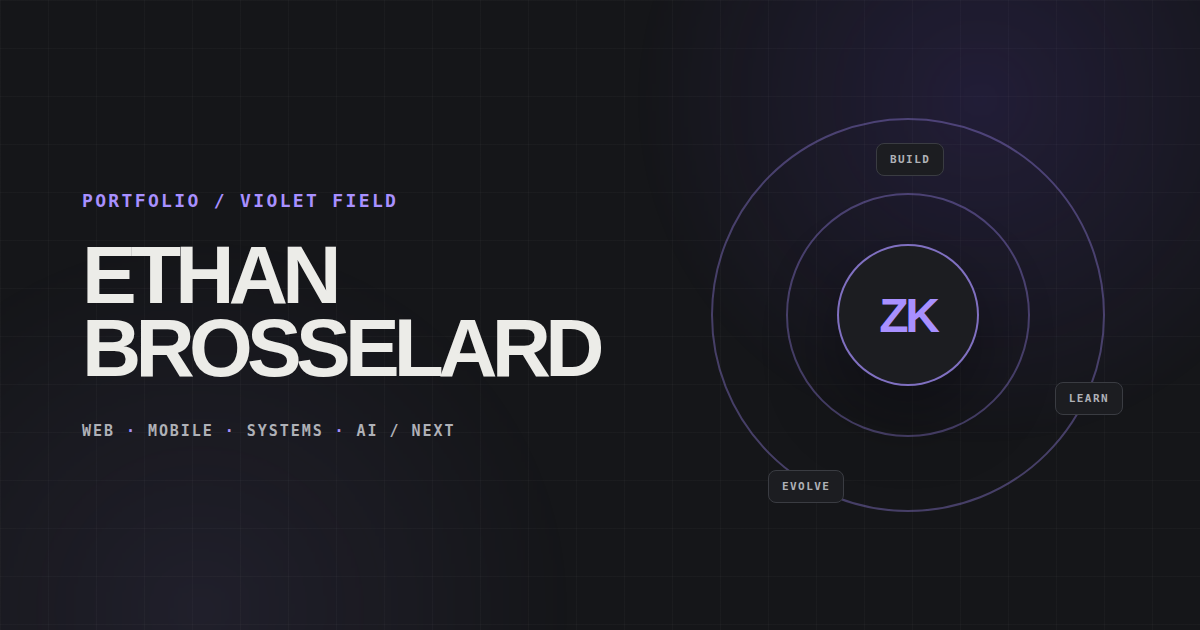
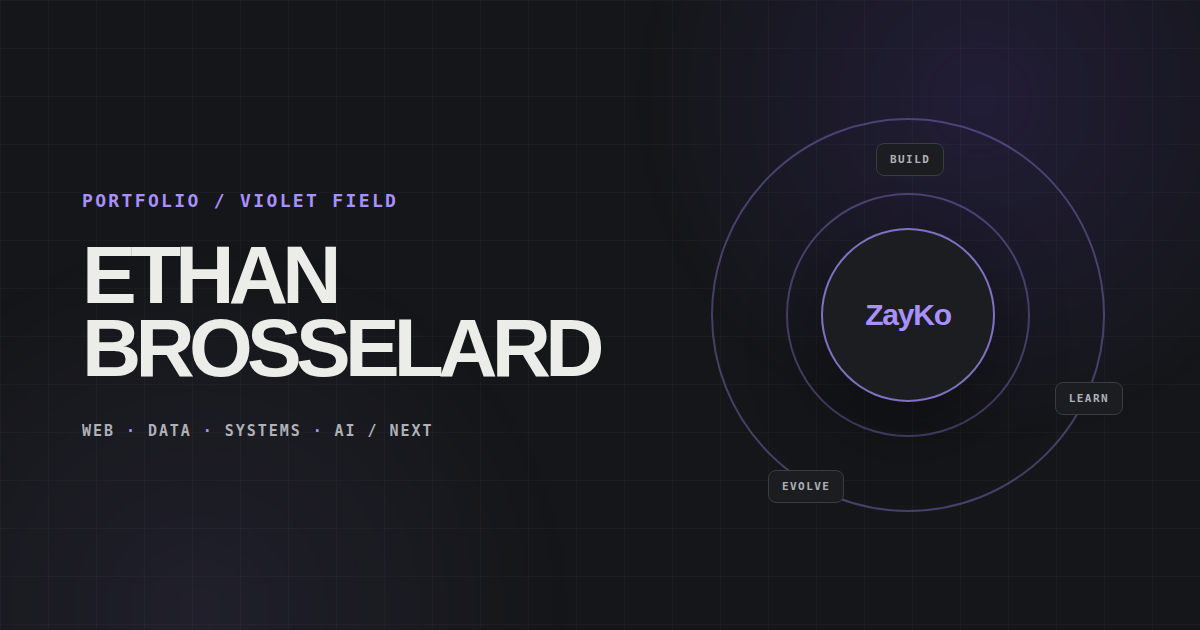
fix(brand): use ZayKo signature

diff --git a/src/styles/global.css b/src/styles/global.css
@@ -535,11 +535,11 @@ h3 {
   justify-items: start;
 }
 
-.hero-signature-monogram {
+.hero-signature-wordmark {
   font-family: var(--font-display);
-  font-size: clamp(4.5rem, 10vw, 8rem);
+  font-size: clamp(3.5rem, 7vw, 5.8rem);
   font-weight: 700;
-  letter-spacing: -0.08em;
+  letter-spacing: -0.07em;
   line-height: 0.86;
 }
 
@@ -1064,27 +1064,13 @@ h3 {
   position: sticky;
   top: 7rem;
   display: grid;
-  grid-template-columns: auto 1fr;
+  grid-template-columns: 1fr;
   gap: 1rem;
   padding: 1.5rem;
   border: 1px solid var(--border);
   border-radius: var(--radius-card);
   background: var(--surface);
   box-shadow: 0.75rem 0.75rem 0 var(--surface-strong);
-}
-
-.identity-monogram {
-  display: grid;
-  grid-row: span 2;
-  place-items: center;
-  width: 4.5rem;
-  aspect-ratio: 1;
-  border-radius: var(--radius-control);
-  color: var(--primary-contrast);
-  background: var(--primary);
-  font-family: var(--font-display);
-  font-size: 1.35rem;
-  font-weight: 700;
 }
 
 .identity-card strong,
@@ -1859,8 +1845,8 @@ h3 {
     display: none;
   }
 
-  .hero-signature-monogram {
-    font-size: 3.6rem;
+  .hero-signature-wordmark {
+    font-size: 3.15rem;
   }
 
   .interest-line,

diff --git a/src/i18n/copy.ts b/src/i18n/copy.ts
@@ -41,7 +41,7 @@ export const copy = {
       description:
         "Portfolio d’Ethan Brosselard. Projets logiciels, plateformes web, architecture et explorations autour de l’IA.",
       socialImageAlt:
-        "Carte de partage Violet Field du portfolio d’Ethan Brosselard, avec sa signature ZK.",
+        "Carte de partage Violet Field du portfolio d’Ethan Brosselard, avec sa signature ZayKo.",
     },
     home: {
       eyebrow: "Paris, France · FR / EN",
@@ -216,7 +216,7 @@ export const copy = {
       description:
         "Portfolio of Ethan Brosselard. Software projects, web platforms, architecture, and AI explorations.",
       socialImageAlt:
-        "Violet Field sharing card for Ethan Brosselard’s portfolio, featuring his ZK signature.",
+        "Violet Field sharing card for Ethan Brosselard’s portfolio, featuring his ZayKo signature.",
     },
     home: {
       eyebrow: "Paris, France · FR / EN",

diff --git a/src/data/profile.ts b/src/data/profile.ts
@@ -1,7 +1,6 @@
 export const profile = {
   name: "Ethan Brosselard",
   brand: "ZayKo",
-  monogram: "ZK",
   email: "ethan.brosselard@gmail.com",
   location: "Paris, France",
   languages: ["fr", "en"],

diff --git a/docs/production-plan.md b/docs/production-plan.md
@@ -147,8 +147,8 @@ Les contenus longs, médias et CV avancent en parallèle. Ils ne bloquent le jal
 - [ ] `[Ethan]` Valider le titre temporaire « Développeur logiciel & créateur numérique », ou fournir le titre final.
 - [ ] `[Ethan]` Valider qu’aucune recherche d’emploi n’est affichée.
 - [ ] `[Ethan]` Valider que l’intérêt pour l’IA reste secondaire tant qu’aucun projet public ne le démontre.
-- [ ] `[Ethan]` Confirmer les faits déjà publics : nom, Paris/France, français/anglais, email, GitHub et LinkedIn ; conserver le pseudo absent du site.
-- [ ] `[Ethan]` Choisir si le portrait reste absent au lancement ; conserver le monogramme s’il n’y en a pas.
+- [ ] `[Ethan]` Confirmer les faits déjà publics : nom, Paris/France, français/anglais, email, GitHub et LinkedIn ; la signature ZayKo est validée séparément.
+- [ ] `[Ethan]` Choisir si le portrait reste absent au lancement ; conserver la signature typographique ZayKo s’il n’y en a pas.
 - [ ] `[Ethan]` Décider si le CV et les études de cas complètes sont requis pour le premier lancement.
 - [ ] `[Dev]` Inscrire la décision de périmètre en haut de ce document.
 
@@ -356,7 +356,7 @@ Les questionnaires détaillés restent dans `docs/content-backlog.md`. Le statut
 
 - [x] `[Dev]` Formaliser palette, typographies, espacements, rayons, bordures, ombres et mouvement dans les tokens existants.
 - [ ] `[Ethan]` Choisir entre la pile système et des polices auto-hébergées avec licences vérifiées.
-- [ ] `[Dev]` Finaliser le monogramme/signature si aucun logo n’est fourni.
+- [x] `[Dev]` Utiliser la signature typographique ZayKo sans monogramme abrégé si aucun logo n’est fourni.
 - [x] `[Dev]` Créer favicon PNG et icône Apple touch depuis une source déterministe.
 - [x] `[Dev]` Créer une image Open Graph globale de 1200 × 630 px.
 - [x] `[Dev]` Créer une image Open Graph déterministe par projet à partir des compositions Violet Field existantes, avec alternative localisée dans chaque MDX.
@@ -806,8 +806,8 @@ Notes :
 | Jalon A ou B pour le premier lancement | Ethan          | Phase 0             | Jalon A                                       |
 | Titre professionnel final              | Ethan          | Avant gel éditorial | « Développeur logiciel & créateur numérique » |
 | Domaine effectivement utilisé          | Ethan          | Avant phase 7       | `zaykohub.com`, sans `www`                    |
-| Portrait public                        | Ethan          | Avant design final  | Aucun portrait, monogramme                    |
-| Logo ou signature                      | Ethan + design | Avant design final  | Monogramme existant                           |
+| Portrait public                        | Ethan          | Avant design final  | Aucun portrait, signature ZayKo               |
+| Logo ou signature                      | Ethan + design | Avant design final  | Signature typographique ZayKo                 |
 | CV requis au lancement                 | Ethan          | Phase 0             | Non, liens masqués                            |
 | Dépôts projets publics                 | Ethan          | Avant études de cas | Aucun lien si privé                           |
 | Démo/APK publics                       | Ethan          | Avant études de cas | Aucun lien si non validé                      |

diff --git a/docs/design-system.md b/docs/design-system.md
@@ -76,7 +76,7 @@ Le focus clavier utilise le violet secondaire avec un contour de `0.19rem` et un
 
 ## Marque et médias
 
-Le monogramme public actuel est `ZK`. Le favicon, l’icône Apple touch et les cartes sociales sont générés de manière déterministe depuis les mêmes tokens. Ils utilisent une base sombre neutre et réservent le violet aux détails de signal et de profondeur.
+La signature publique est `ZayKo` lorsqu’elle apporte un repère utile. Aucun monogramme abrégé n’est utilisé. Le favicon repose sur un signe géométrique sans lettres ; l’icône Apple touch et les cartes sociales sont générées de manière déterministe depuis les mêmes tokens. Ils utilisent une base sombre neutre et réservent le violet aux détails de signal et de profondeur.
 
 Les futurs médias de projet doivent être approuvés, nettoyés de toute donnée privée, dimensionnés explicitement et optimisés avant intégration. Les images ne remplacent jamais une information textuelle essentielle.
 

diff --git a/docs/content-backlog.md b/docs/content-backlog.md
@@ -6,7 +6,7 @@ Cette liste n’est pas affichée sur le site.
 
 - Relire les textes visibles en français et en anglais après la prochaine évolution éditoriale.
 - Relire les aperçus factuels (`teaser`) de Palimia et Ludosaic ; leur sélection, leur ordre et le retrait de FiltreAppels ont été validés le 29 août 2026.
-- Valider l’identité visuelle actuelle, dont le monogramme et les trois cartes de partage Violet Field.
+- Valider l’identité visuelle actuelle, dont la signature ZayKo et les trois cartes de partage Violet Field.
 - Configurer l’origine canonique HTTPS `https://zaykohub.com` dans l’environnement de déploiement Docker Compose.
 - Confirmer l’adresse de contact publique et accepter le risque de spam, ou fournir une adresse dédiée.
 - Décider si l’adresse email doit rester absente du JSON-LD, comme recommandé pour limiter le scraping.
